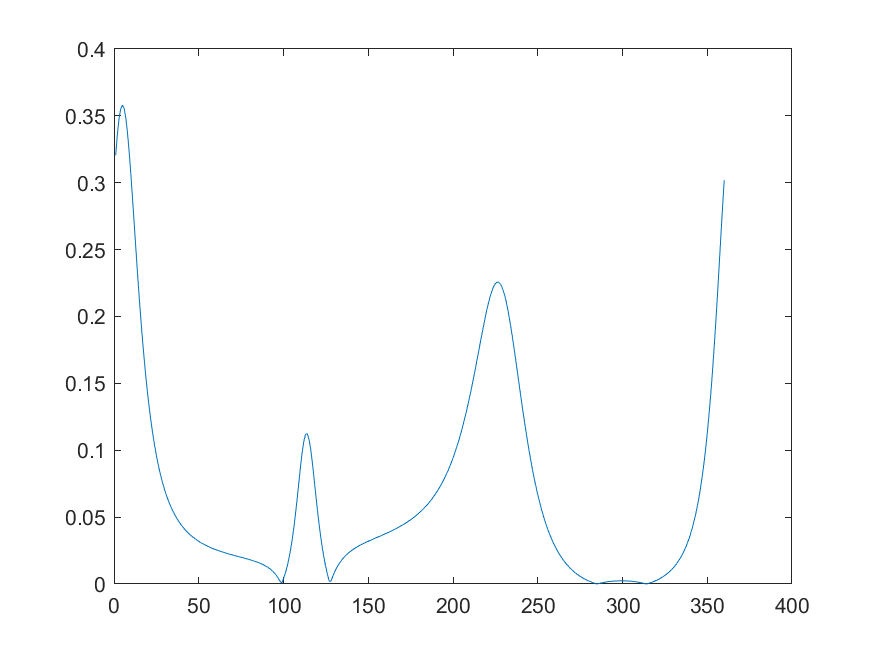
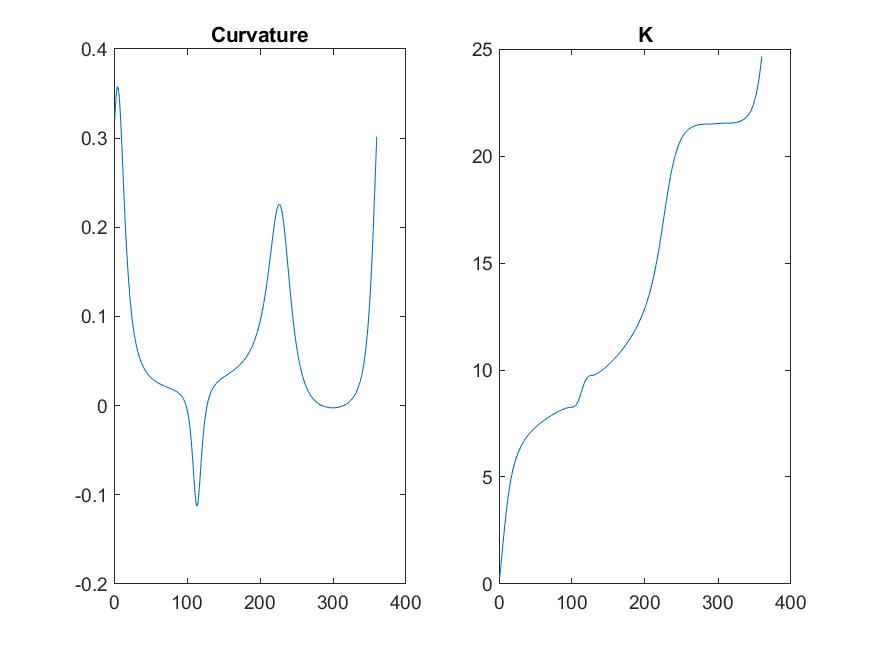
Fix file name.

diff --git a/test_angle.m b/test_angle.m
@@ -1,6 +1,6 @@
 clear; clc; close all;
 
-nc_path1 = [[33.2993894897132, 66.950186339472];
+c_path1 = [[33.2993894897132, 66.950186339472];
     [32.909553722442155, 67.06356492867744];
     [32.51185229505143, 67.16817400473596];
     [32.106540567741845, 67.26397467216344];
@@ -2178,7 +2178,7 @@ nc_path3 = [[36.299803849288786, 81.95002457121691];
     [36.2998038492885, 81.95002457121706];
     [36.299803849288516, 81.95002457121706];
 ];
-show_data(nc_path1, 'img/non-crossed-path1.png', 'img/non-crossed1.png')
+show_data(c_path1, 'img/non-crossed-path1.png', 'img/non-crossed1.png')
 show_data(c_path2, 'img/non-crossed-path2.png', 'img/non-crossed2.png')
 show_data(c_path3, 'img/non-crossed-path3.png', 'img/non-crossed3.png')
 show_data(nc_path1, 'img/crossed-path1.png', 'img/crossed1.png')
@@ -2206,13 +2206,25 @@ for t = 1:len
 end
 k(1:len) = 0;
 for t = 1:len
-    k(t) = abs(path_d1(t, 1) * path_d2(t, 2) - path_d2(t, 1) * path_d1(t, 2)) /...
+    k(t) = (path_d1(t, 1) * path_d2(t, 2) - path_d2(t, 1) * path_d1(t, 2)) /...
            (path_d1(t, 1)^2 + path_d1(t, 2)^2)^1.5;
+end
+k_big(1:len) = 0;
+for t = 1:len
+    if t > 1
+        k_big(t) = k_big(t - 1);
+    end
+    k_big(t) = k_big(t) + abs(k(t));
 end
 axis = figure;
 plot(path(:, 1), path(:, 2))
 saveas(axis, file1)
 axis = figure;
+subplot(1, 2, 1)
 plot(k)
+title('Curvature')
+subplot(1, 2, 2)
+plot(k_big)
+title('K')
 saveas(axis, file2)
 end
